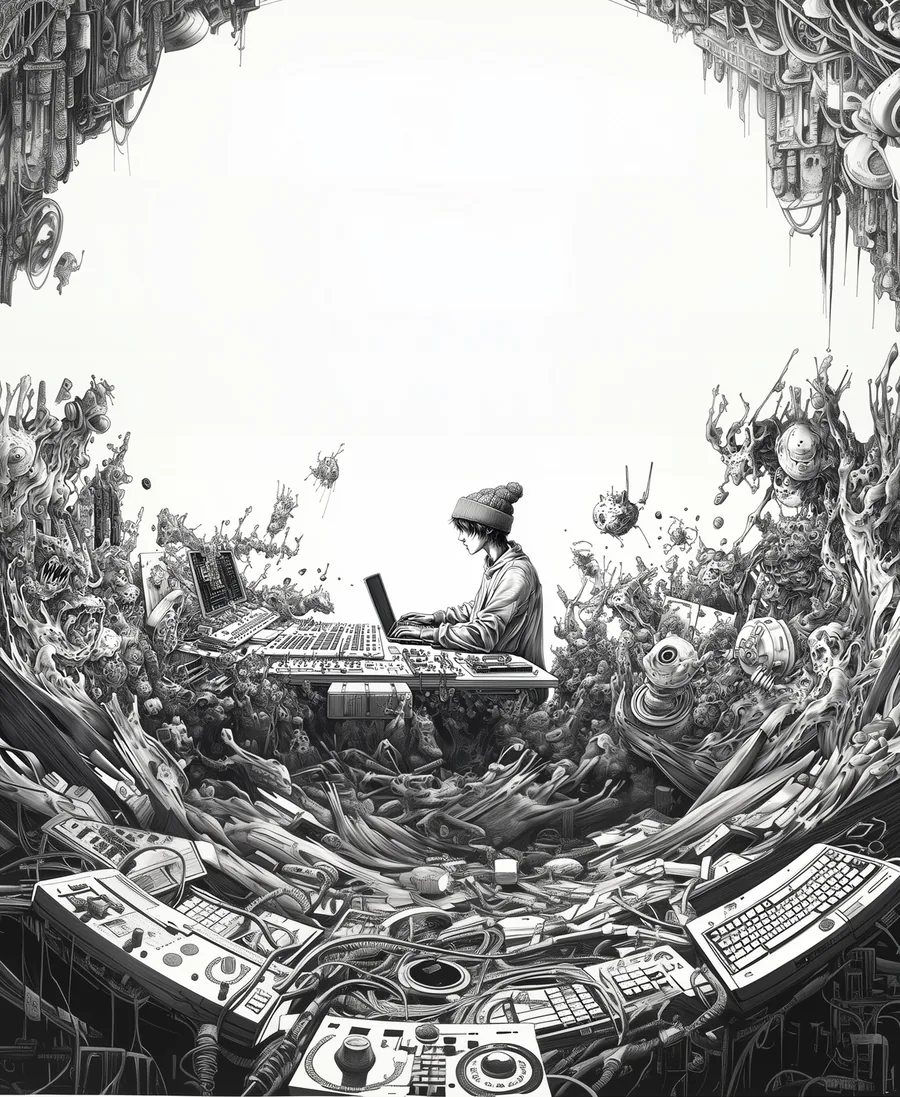
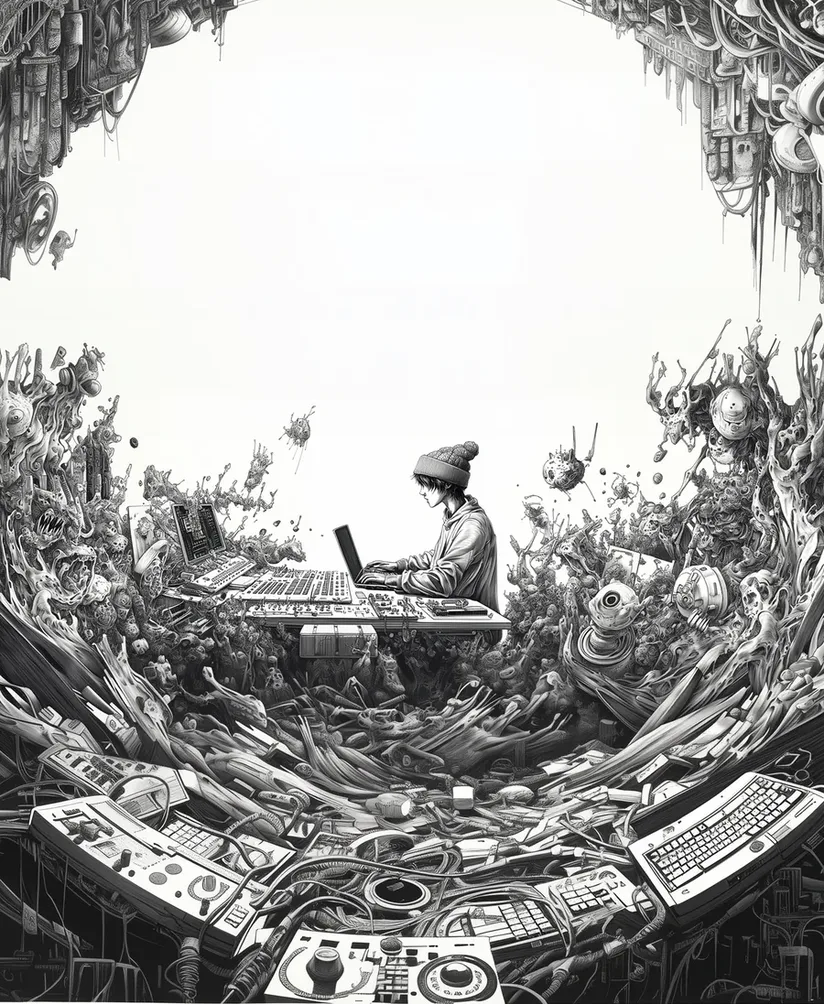
perf: resize images, IntersectionObserver reveal, fix forced reflow

Changed region(s): [[0.8192, 0.7719, 0.9405, 0.8645], [0.7888, 0.8645, 0.8192, 0.8954]]

diff --git a/spa.js b/spa.js
@@ -170,19 +170,33 @@
     });
   }, { passive: true });
 
-  /* ─── scroll reveal fallback ─── */
-  function _reveal() {
-    var h = window.innerHeight;
-    document.querySelectorAll('.reveal:not(.visible),.rv:not(.visible),.fade-in:not(.visible)').forEach(function(el) {
-      var r = el.getBoundingClientRect();
-      if (r.top < h - 40 && r.bottom > 0) el.classList.add('visible');
-    });
+  /* ─── scroll reveal (IntersectionObserver) ─── */
+  function _initReveal() {
+    var els = document.querySelectorAll('.reveal,.rv,.fade-in');
+    if (!els.length) return;
+    if ('IntersectionObserver' in window) {
+      var io = new IntersectionObserver(function(entries) {
+        entries.forEach(function(e) {
+          if (e.isIntersecting) { e.target.classList.add('visible'); io.unobserve(e.target); }
+        });
+      }, { rootMargin: '0px 0px -40px 0px', threshold: 0 });
+      els.forEach(function(el) { io.observe(el); });
+    } else {
+      function _reveal() {
+        var h = window.innerHeight;
+        document.querySelectorAll('.reveal:not(.visible),.rv:not(.visible),.fade-in:not(.visible)').forEach(function(el) {
+          var r = el.getBoundingClientRect();
+          if (r.top < h - 40 && r.bottom > 0) el.classList.add('visible');
+        });
+      }
+      window.addEventListener('scroll', _reveal, { passive: true });
+      _reveal();
+    }
   }
-  window.addEventListener('scroll', _reveal, { passive: true });
   if (document.readyState === 'loading') {
-    document.addEventListener('DOMContentLoaded', _reveal);
+    document.addEventListener('DOMContentLoaded', _initReveal);
   } else {
-    _reveal();
+    _initReveal();
   }
 
 }());

diff --git a/index.html b/index.html
@@ -1948,7 +1948,7 @@
       window.addEventListener('scroll',onScroll,{passive:true});
       window.addEventListener('resize',()=>{_scrollMax=0;},{passive:true});
       if(btn) btn.addEventListener('click',()=>window.scrollTo({top:0,behavior:'smooth'}));
-      onScroll();
+      requestAnimationFrame(onScroll);
     })();
 
     // Compact nav on scroll
@@ -2168,7 +2168,7 @@
 
       const VS = `attribute vec2 a_pos;varying vec2 vUv;
 void main(){vUv=a_pos*.5+.5;vUv.y=1.-vUv.y;gl_Position=vec4(a_pos,0.,1.);}`;
-      const isMobEarly = canvas.parentElement.clientWidth < 768;
+      const isMobEarly = window.innerWidth < 768;
       const FS = isMobEarly
         ? `precision mediump float;
 uniform sampler2D uTex;uniform float uTime;varying vec2 vUv;
